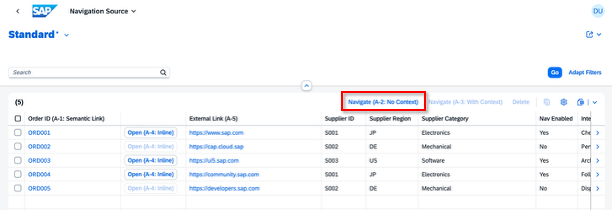
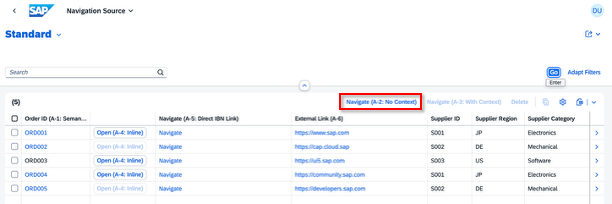
Update images, add B-2.png, add requiremens.md, ignore .vscode/

diff --git a/requiremens.md b/requiremens.md
@@ -1,0 +1,12 @@
+1. List ReportでNavigationに関連しない項目を非表示にす [X]
+表示列が限られるので、Navigatinoの制御に必要な項目、またはNavigatino先に連携する項目のみ表示する
+
+2. Targetアプリケーションのフィルターバーの項目 [X]
+グループBのどの機能に関連するのかわかるように、vendor (B-2: SemanticObjectMapping) などと表記する
+
+3. SourceアプリケーションのInitial Load [X]
+画面を開いた時点でデータがロードされるようにする
+
+4. グループAにDataFieldWithIntentBasedNavigationのパターンを追加する  [X]
+
+5. ナビゲーションパターンの選択に関するdecision treeを追加する
